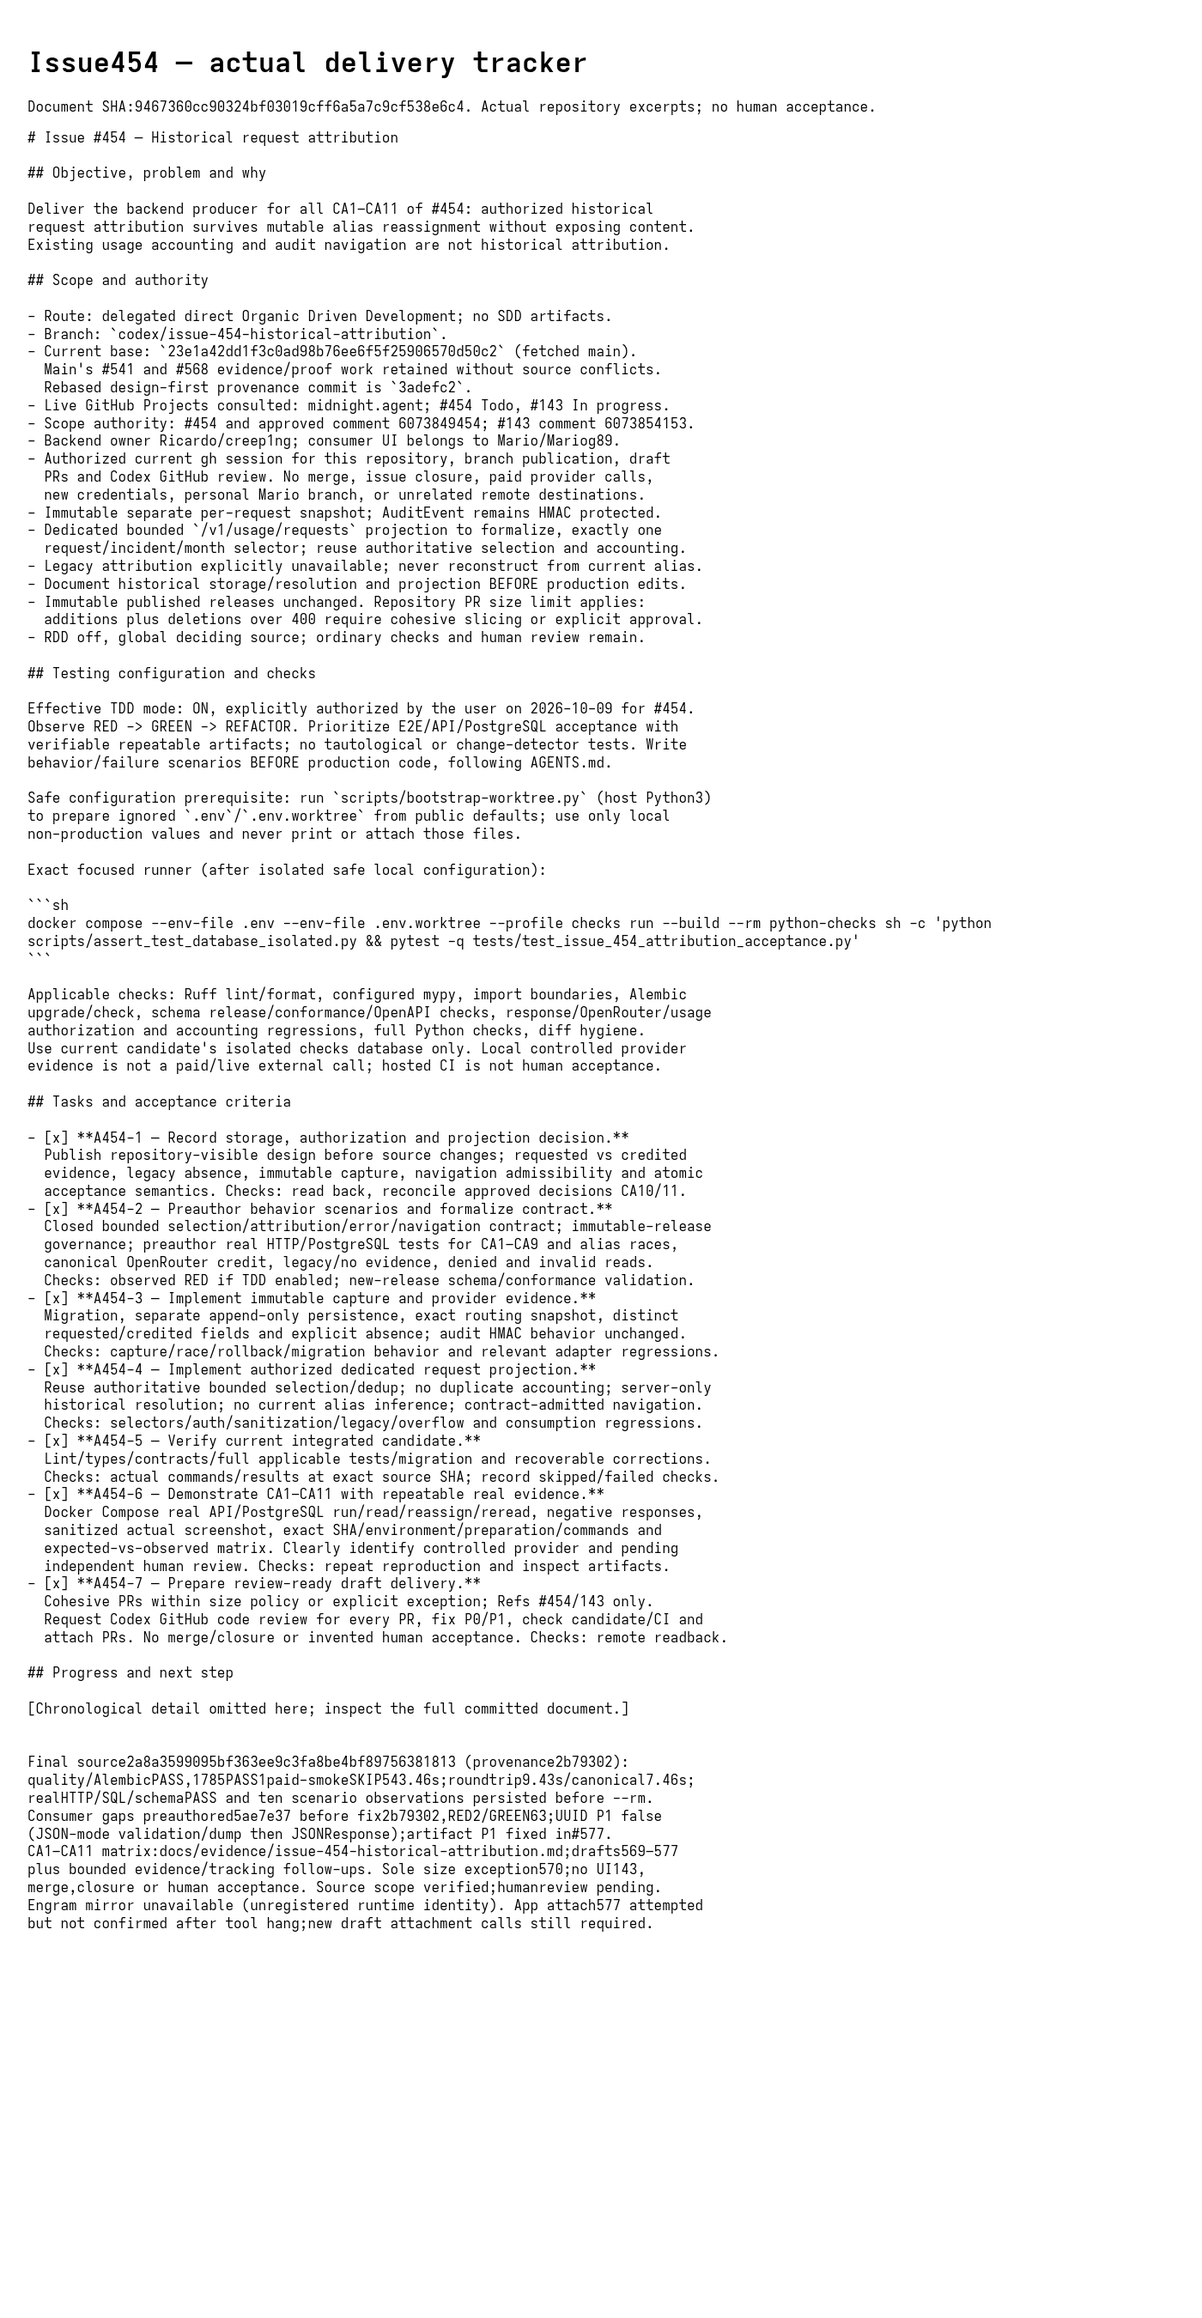
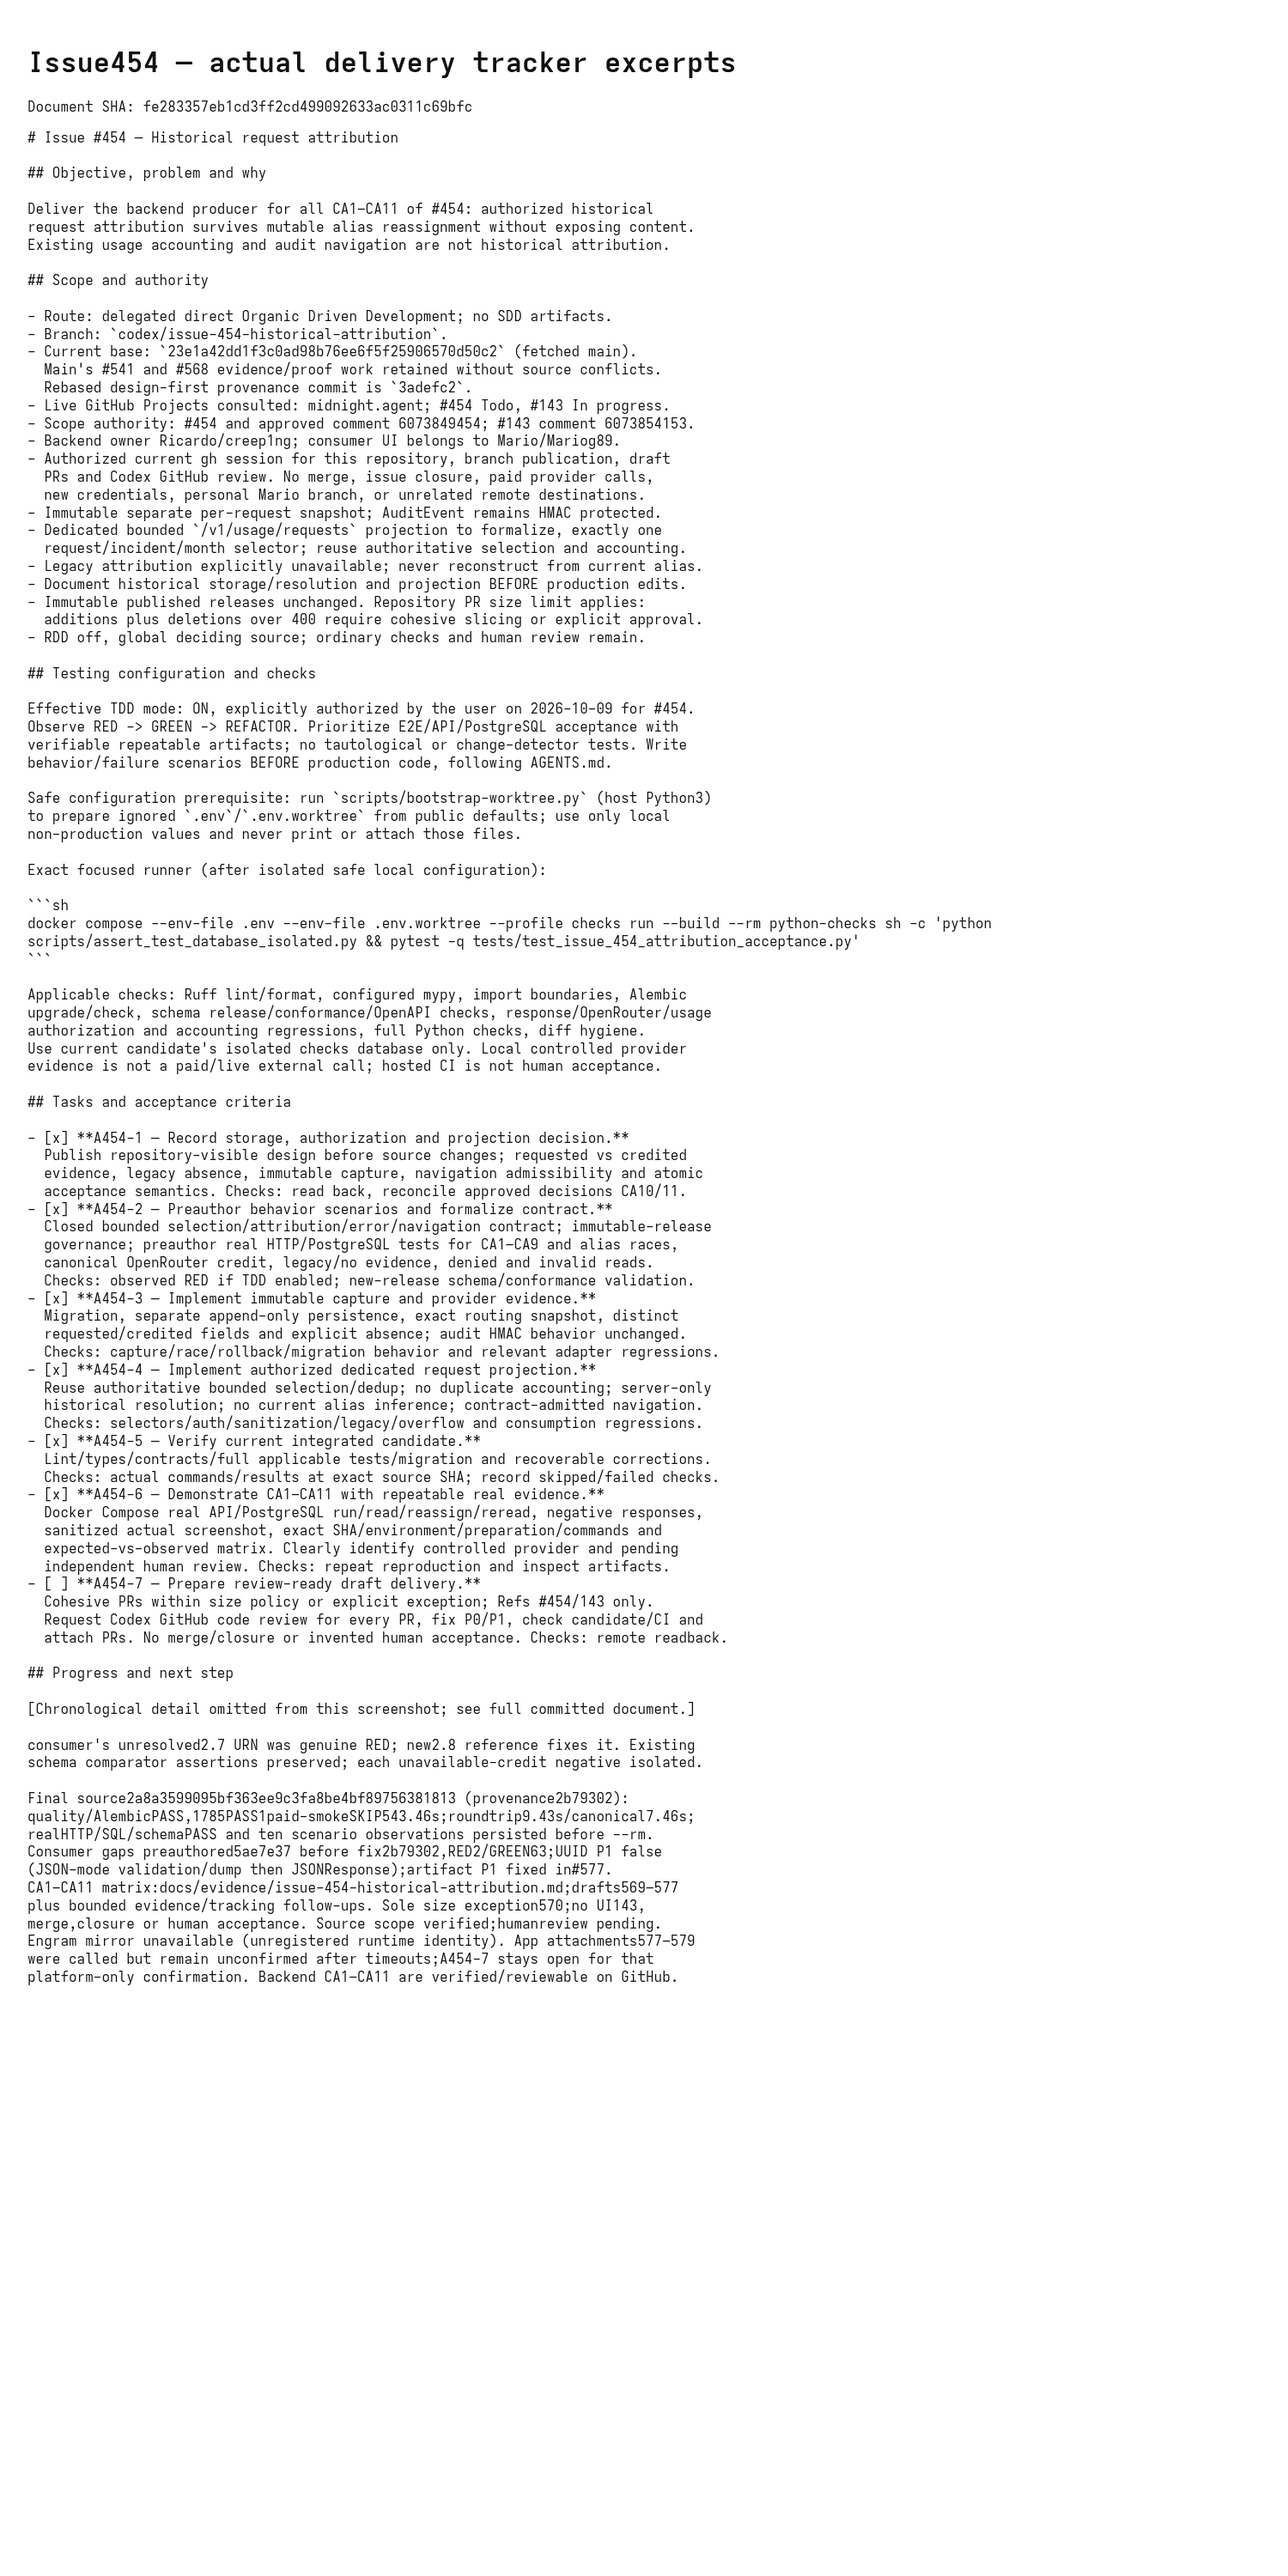
docs(evidence): clean isolated checks and retain pending bookkeeping

Changed region(s): [[0.0, 0.0, 0.645, 0.84], [0.5221, 0.0, 0.5529, 0.0311]]

diff --git a/docs/evidence/issue-454-historical-attribution.md b/docs/evidence/issue-454-historical-attribution.md
@@ -39,7 +39,12 @@ docker compose --env-file .env --env-file .env.worktree --profile checks run --n
 docker compose --env-file .env --env-file .env.worktree --profile checks run --no-deps --rm python-checks sh -c 'python scripts/assert_test_database_isolated.py && pytest -q tests/test_issue_454_attribution_evidence.py::test_canonical_openrouter_evidence_survives_http_persistence_and_read && cat /tmp/issue454-canonical-adapter-artifact.json' > /tmp/issue454-canonical-proof.log
 docker compose --env-file .env --env-file .env.worktree --profile checks run --no-deps --rm python-checks sh -c 'python scripts/assert_test_database_isolated.py && pytest -q tests/test_issue_454_attribution_evidence.py tests/test_issue_454_attribution_guards.py && for artifact in /tmp/issue454-e2e-*.json; do cat "$artifact"; done' > /tmp/issue454-scenario-proof.log
 docker compose --env-file .env --env-file .env.worktree --profile checks run --build --no-deps --rm harness sh -c 'npm --prefix schemas/tooling test && npm --prefix schemas/tooling run validate:releases && node schemas/tooling/release.mjs conformance --consumer issue-454 --release 2.8.0'
+docker compose --env-file .env --env-file .env.worktree --profile checks stop python-checks-db
+docker compose --env-file .env --env-file .env.worktree --profile checks rm -f python-checks-db
 ```
+
+Cleanup stops/removes only the isolated checks DB; preserve the shared project
+network so unrelated services are not affected. Repeated runs reuse that network.
 
 On the tested host only, Docker's default pools were exhausted. The optional local
 `/tmp/sre-agent-issue454-network.yaml` had the exact public contents below; select

diff --git a/odd/tasks/issue-454-historical-attribution.md b/odd/tasks/issue-454-historical-attribution.md
@@ -78,7 +78,7 @@ evidence is not a paid/live external call; hosted CI is not human acceptance.
   sanitized actual screenshot, exact SHA/environment/preparation/commands and
   expected-vs-observed matrix. Clearly identify controlled provider and pending
   independent human review. Checks: repeat reproduction and inspect artifacts.
-- [x] **A454-7 — Prepare review-ready draft delivery.**
+- [ ] **A454-7 — Prepare review-ready draft delivery.**
   Cohesive PRs within size policy or explicit exception; Refs #454/143 only.
   Request Codex GitHub code review for every PR, fix P0/P1, check candidate/CI and
   attach PRs. No merge/closure or invented human acceptance. Checks: remote readback.
@@ -447,5 +447,6 @@ Consumer gaps preauthored5ae7e37 before fix2b79302,RED2/GREEN63;UUID P1 false
 CA1–CA11 matrix:docs/evidence/issue-454-historical-attribution.md;drafts569–577
 plus bounded evidence/tracking follow-ups. Sole size exception570;no UI143,
 merge,closure or human acceptance. Source scope verified;humanreview pending.
-Engram mirror unavailable (unregistered runtime identity). App attach577 attempted
-but not confirmed after tool hang;new draft attachment calls still required.
+Engram mirror unavailable (unregistered runtime identity). App attachments577–579
+were called but remain unconfirmed after timeouts;A454-7 stays open for that
+platform-only confirmation. Backend CA1–CA11 are verified/reviewable on GitHub.
